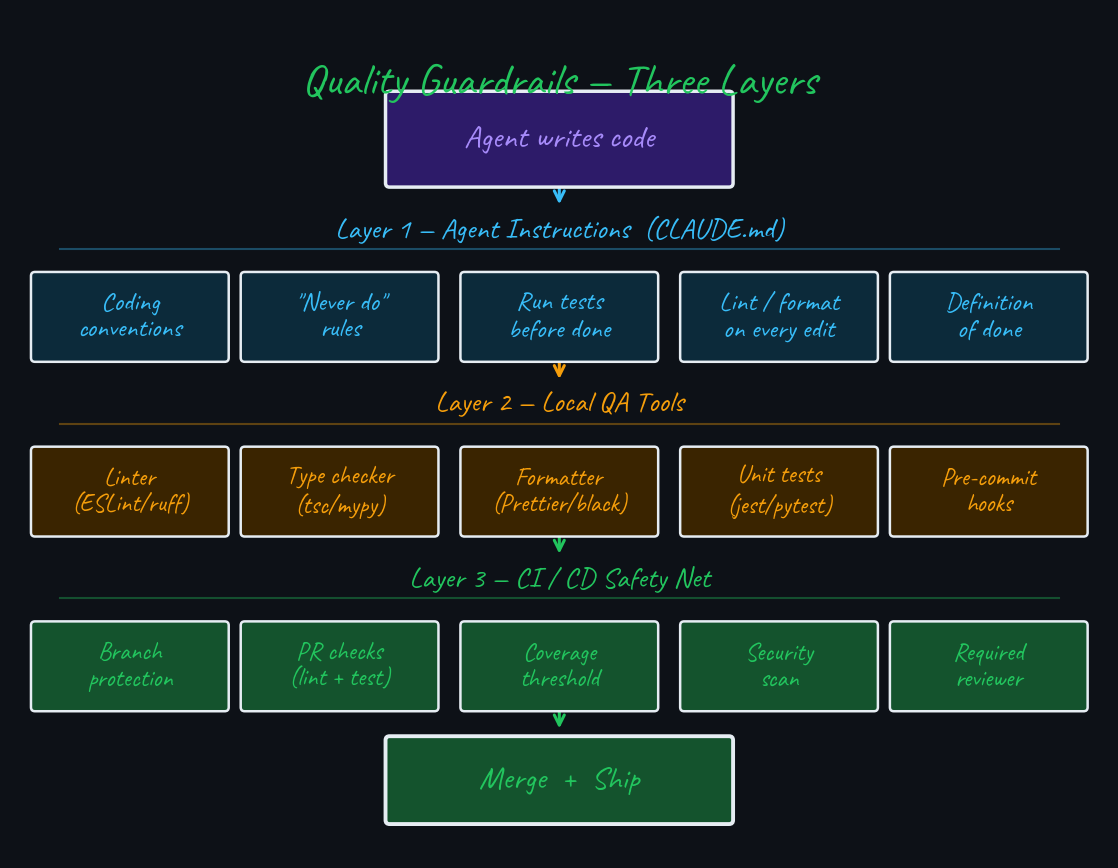
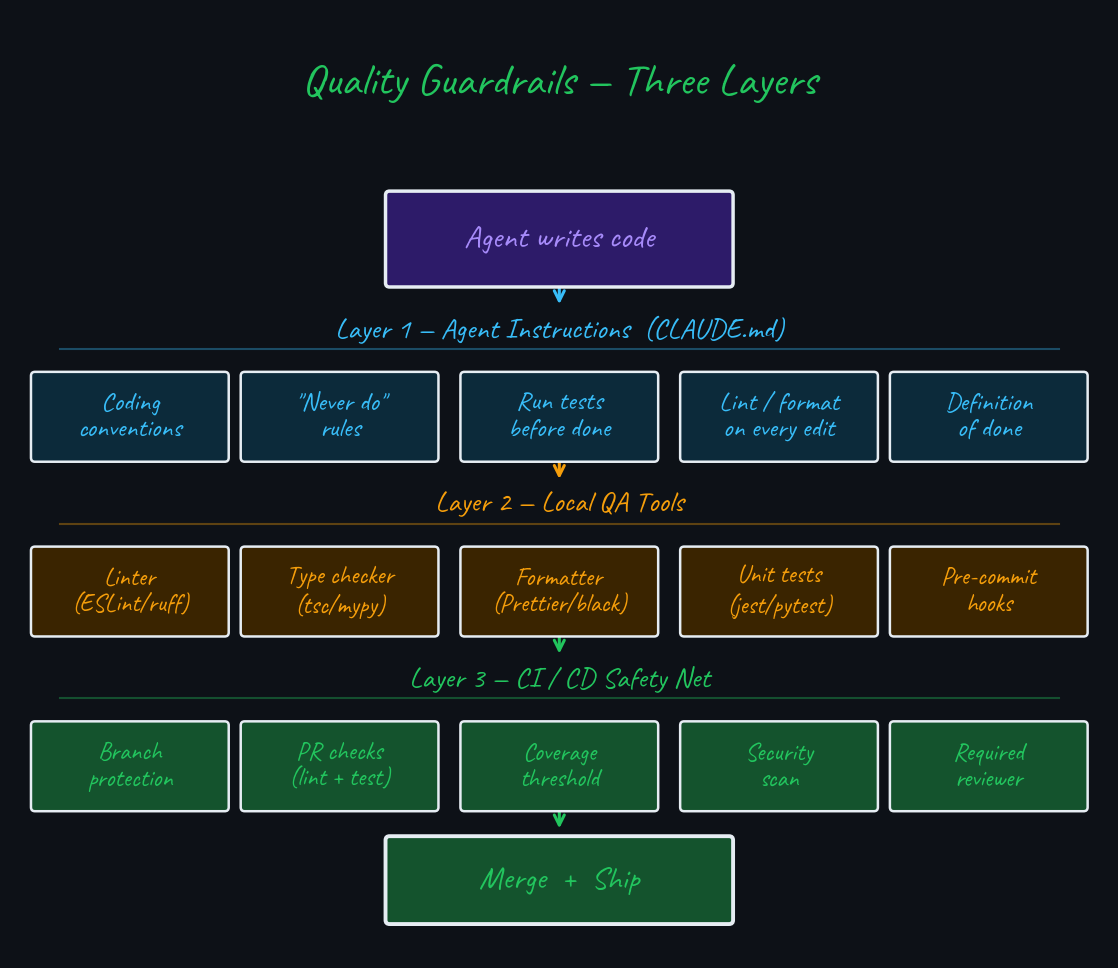
minor

diff --git a/media/generate_diagrams.py b/media/generate_diagrams.py
@@ -484,8 +484,8 @@ def make_09():
 # (no group_bg so no occlusion issues), then a row of item boxes.
 # ═══════════════════════════════════════════════════════════════
 def make_10():
-    fig, ax = new_fig(11, 8.5)
-    title(ax, 11, 8.5, 'Quality Guardrails — Three Layers')
+    fig, ax = new_fig(11, 9.5)
+    title(ax, 11, 9.5, 'Quality Guardrails — Three Layers')
 
     xs = [1.20, 3.30, 5.50, 7.70, 9.80]   # x centres for 5-item rows
     bw_item = 1.90                          # item box width